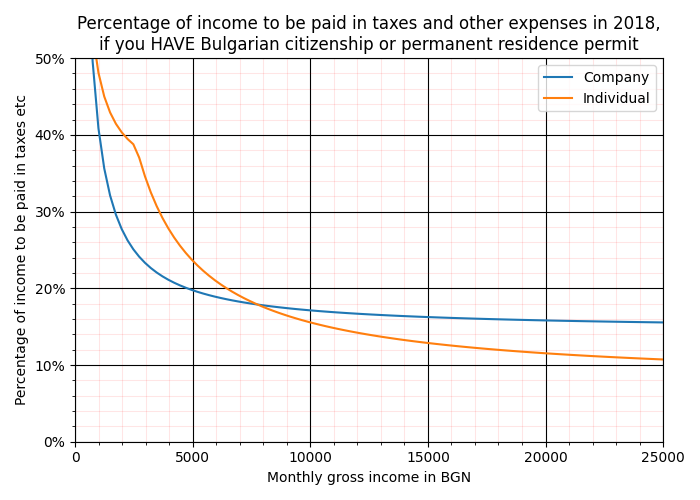
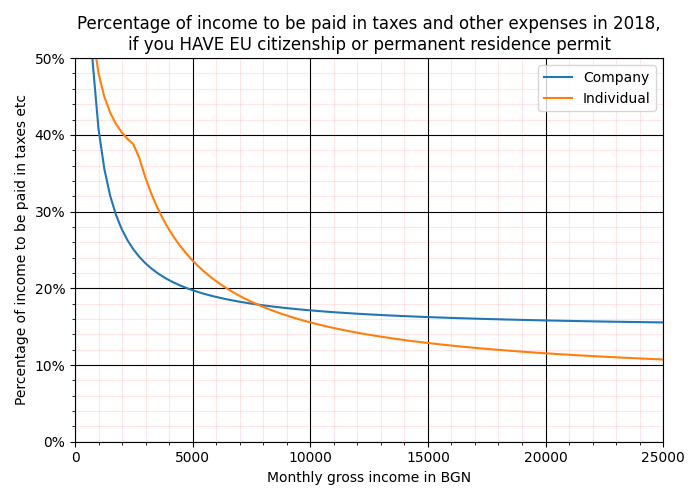
Fix the Bulgarian vs EU citizenship

Changed region(s): [[0.15, 0.06, 0.93, 0.12]]

diff --git a/bulgaria-freelance-taxes.py b/bulgaria-freelance-taxes.py
@@ -23,7 +23,7 @@ import argparse
 # - National Health Insurance Fund (in Bulgarian, НЗОК):            8%
 #
 # The first two are payable by everyone. The last one (health insurance) is
-# only payable by citizens and those who have permanent residence permit.
+# only payable by EU citizens and those who have permanent residence permit.
 # To get the actual percentage, use the soc_sec_factor function, which uses
 # those constants and returns the total percentage based on the --citizen flag.
 SOCIAL_SECURITY_FACTOR_MAIN = 0.148 + 0.05
@@ -121,7 +121,7 @@ def plot_func(x):
     y_individual = list(map(lambda gross: 1 - get_net_individual(gross) / gross, x))
 
     plt.title(f"Percentage of income to be paid in taxes and other expenses in {args.year},\n"
-            f"if you {'HAVE' if args.citizen else 'DO NOT HAVE'} Bulgarian citizenship "
+            f"if you {'HAVE' if args.citizen else 'DO NOT HAVE'} EU citizenship "
             "or permanent residence permit")
 
     plt.plot(x, y_company, label='Company')
